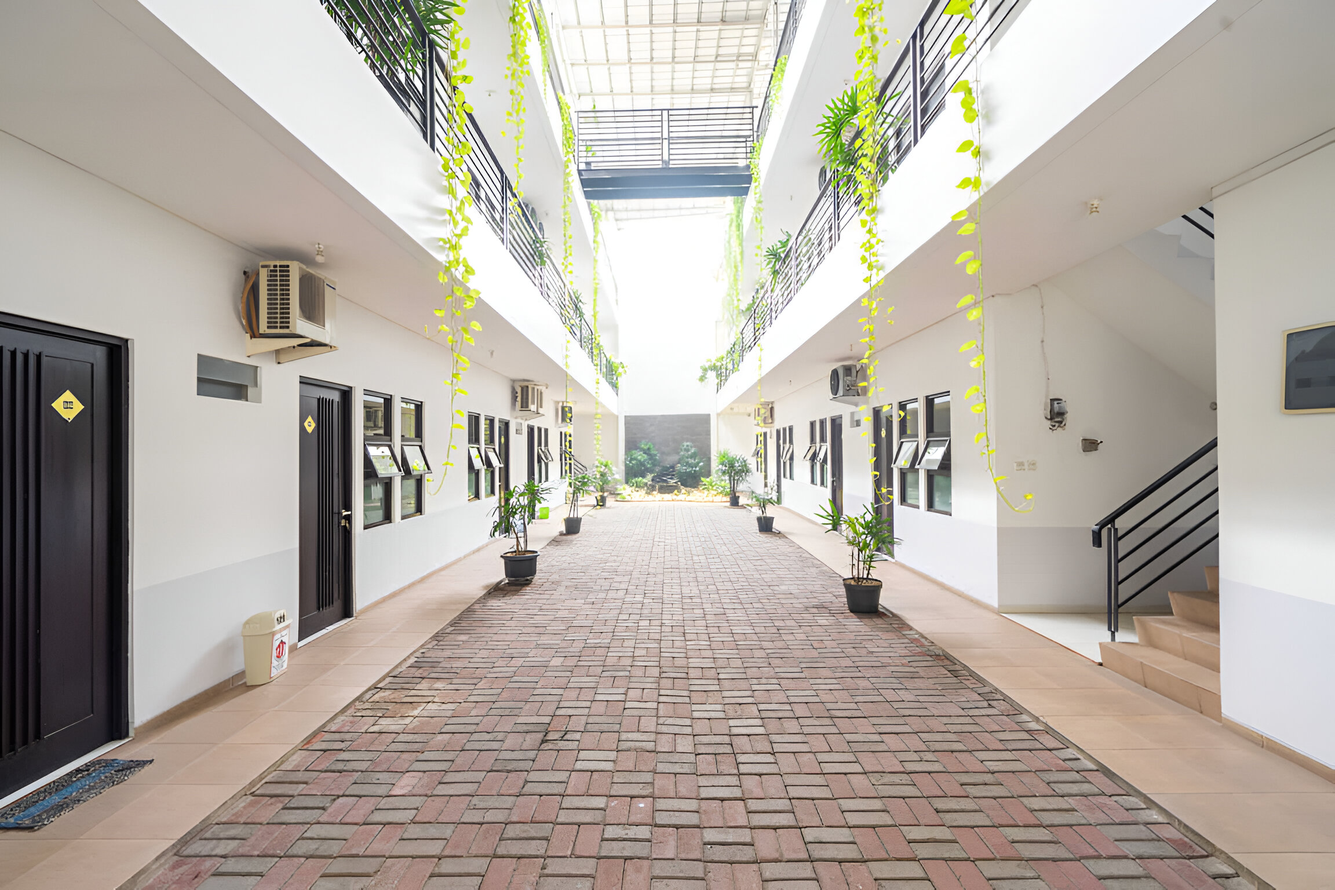
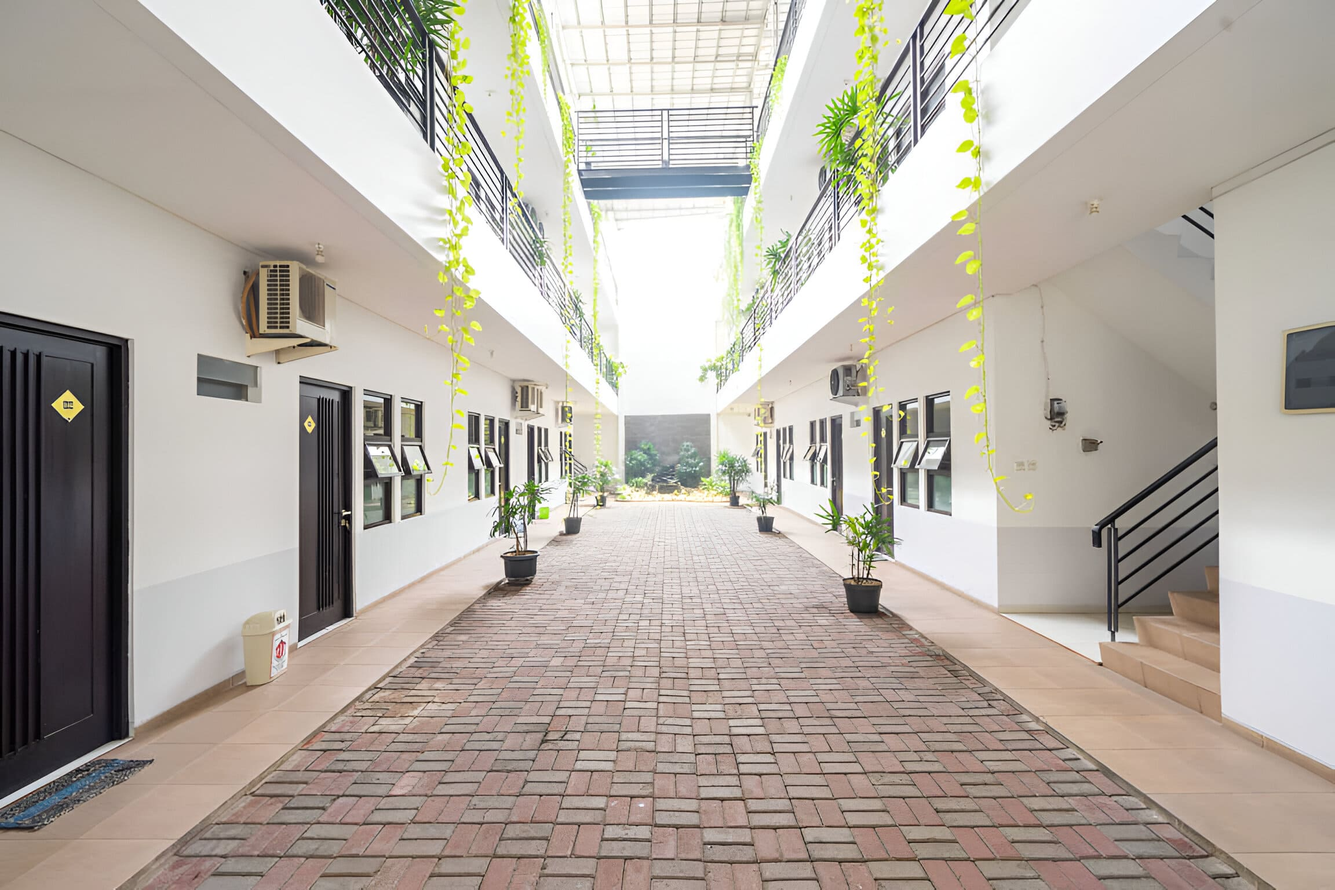
LCP Problem Not Solve

Changed region(s): [[0.625, 0.0938, 0.6562, 0.1562], [0.625, 0.1875, 0.6562, 0.2188]]

diff --git a/src/components/user/homepage/Jumbotron.jsx b/src/components/user/homepage/Jumbotron.jsx
@@ -36,7 +36,8 @@ const Jumbotron = () => {
           >
             <div className="absolute inset-0 bg-black opacity-50 z-0 w-full h-full"></div>
             <img
-              src={item.image}
+              loading="lazy"
+              src={item.image.replace(".jpg", ".webp")}
               alt={`image ${index + 1}`}
               className="h-full w-full object-cover"
             />
